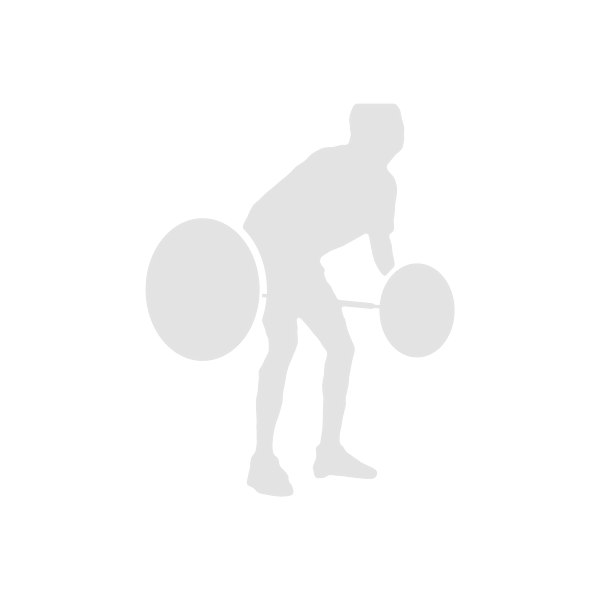
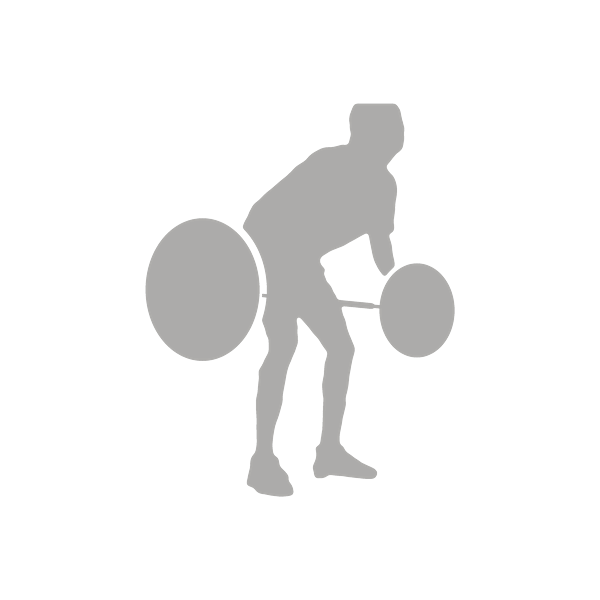
fix(art): make the Cues and Trends empty-state figures readable
The silhouettes shipped at 18% alpha and all but vanished on black. Triple
their alpha and tint them text2 so they read as a quiet illustration.

Claude-Session: catchline (3568dabe-a971-4b64-a655-1f7b6322aee8)

Changed region(s): [[0.24, 0.15, 0.78, 0.84]]

diff --git a/src/features/library/CuesScreen.tsx b/src/features/library/CuesScreen.tsx
@@ -51,7 +51,7 @@ export default function CuesScreen({ onOpen }: { onOpen: (cue: CueRecord) => voi
             <ActivityIndicator color={colors.text2} />
           ) : (
             <>
-              <Image testID="cues-empty-art" source={EMPTY_CUES_ART} style={{ width: 160, height: 160 }} />
+              <Image testID="cues-empty-art" source={EMPTY_CUES_ART} style={{ width: 160, height: 160, tintColor: colors.text2 }} />
               <Text style={[display(32), { color: colors.text, textAlign: 'center' }]}>Your first cue lands here.</Text>
               <Text style={{ color: colors.text2, fontFamily: fontFamily.body, fontSize: 15, lineHeight: 21, textAlign: 'center' }}>
                 After you film a lift, the one thing to fix lives on this tab until it sticks.

diff --git a/src/features/library/TrendsScreen.tsx b/src/features/library/TrendsScreen.tsx
@@ -82,7 +82,7 @@ export default function TrendsScreen({ initialMovement }: { initialMovement?: Mo
     <ScrollView contentContainerStyle={{ flexGrow: 1 }} refreshControl={refresh} testID={testID}>
       <View style={{ flex: 1, alignItems: 'center', justifyContent: 'center', gap: space.s4, paddingHorizontal: space.gutter }}>
         {art ? (
-          <Image testID="trends-empty-art" source={EMPTY_TRENDS_ART} style={{ width: 160, height: 160 }} />
+          <Image testID="trends-empty-art" source={EMPTY_TRENDS_ART} style={{ width: 160, height: 160, tintColor: colors.text2 }} />
         ) : (
           <Svg width={200} height={60}>
             <Line x1={0} y1={50} x2={200} y2={50} stroke={colors.text} strokeDasharray="4 6" opacity={0.35} />

diff --git a/src/features/library/trends.test.tsx b/src/features/library/trends.test.tsx
@@ -97,7 +97,7 @@ describe('Trends tab on a real account', () => {
     expect(view.getByText('Film a lift and the trend starts here.')).toBeOnTheScreen();
     expect(view.getByText('Trends need two lifts of the same movement.')).toBeOnTheScreen();
     expect(view.getByTestId('trends-empty-art')).toHaveProp('source', require('../../../assets/art/empty-trends.png'));
-    expect(view.getByTestId('trends-empty-art')).toHaveStyle({ width: 160, height: 160 });
+    expect(view.getByTestId('trends-empty-art')).toHaveStyle({ width: 160, height: 160, tintColor: '#A39F97' });
     expect(view.queryByTestId('movement-switcher')).toBeNull();
   });
 

diff --git a/src/features/library/cues.test.tsx b/src/features/library/cues.test.tsx
@@ -93,7 +93,7 @@ describe('Cues tab on a real account', () => {
     expect(view.getByTestId('cues-empty')).toBeOnTheScreen();
     expect(view.getByText('Your first cue lands here.')).toBeOnTheScreen();
     expect(view.getByTestId('cues-empty-art')).toHaveProp('source', require('../../../assets/art/empty-cues.png'));
-    expect(view.getByTestId('cues-empty-art')).toHaveStyle({ width: 160, height: 160 });
+    expect(view.getByTestId('cues-empty-art')).toHaveStyle({ width: 160, height: 160, tintColor: '#A39F97' });
   });
 
   it('pull-to-refresh re-syncs the library', async () => {
